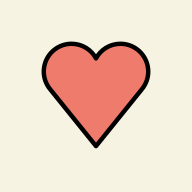
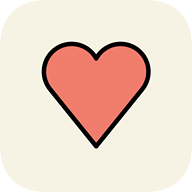
chore: added screenshots

diff --git a/app/routes/manifest[.]webmanifest.ts b/app/routes/manifest[.]webmanifest.ts
@@ -11,16 +11,58 @@ export const manifest = {
   description: pkg.description,
   icons: [
     {
-      src: "/android-chrome-192x192.png",
+      src: "/android-chrome-maskable-192x192.png",
       sizes: "192x192",
       type: "image/png",
       purpose: "maskable",
     },
     {
-      src: "/android-chrome-512x512.png",
+      src: "/android-chrome-maskable-512x512.png",
       sizes: "512x512",
       type: "image/png",
       purpose: "maskable",
+    },
+    {
+      src: "/android-chrome-192x192.png",
+      sizes: "192x192",
+      type: "image/png",
+      purpose: "any",
+    },
+    {
+      src: "/android-chrome-512x512.png",
+      sizes: "512x512",
+      type: "image/png",
+      purpose: "any",
+    },
+  ],
+  screenshots: [
+    {
+      form_factor: "narrow",
+      label: "Mobile light mode",
+      sizes: "750x1334",
+      src: "/screenshots/screenshot_mobile_light.png",
+      type: "image/png",
+    },
+    {
+      form_factor: "narrow",
+      label: "Mobile dark mode",
+      sizes: "750x1334",
+      src: "/screenshots/screenshot_mobile_dark.png",
+      type: "image/png",
+    },
+    {
+      form_factor: "wide",
+      label: "Desktop light mode",
+      sizes: "2160x1620",
+      src: "/screenshots/screenshot_desktop_light.png",
+      type: "image/png",
+    },
+    {
+      form_factor: "wide",
+      label: "Desktop dark mode",
+      sizes: "2160x1620",
+      src: "/screenshots/screenshot_desktop_dark.png",
+      type: "image/png",
     },
   ],
 };
